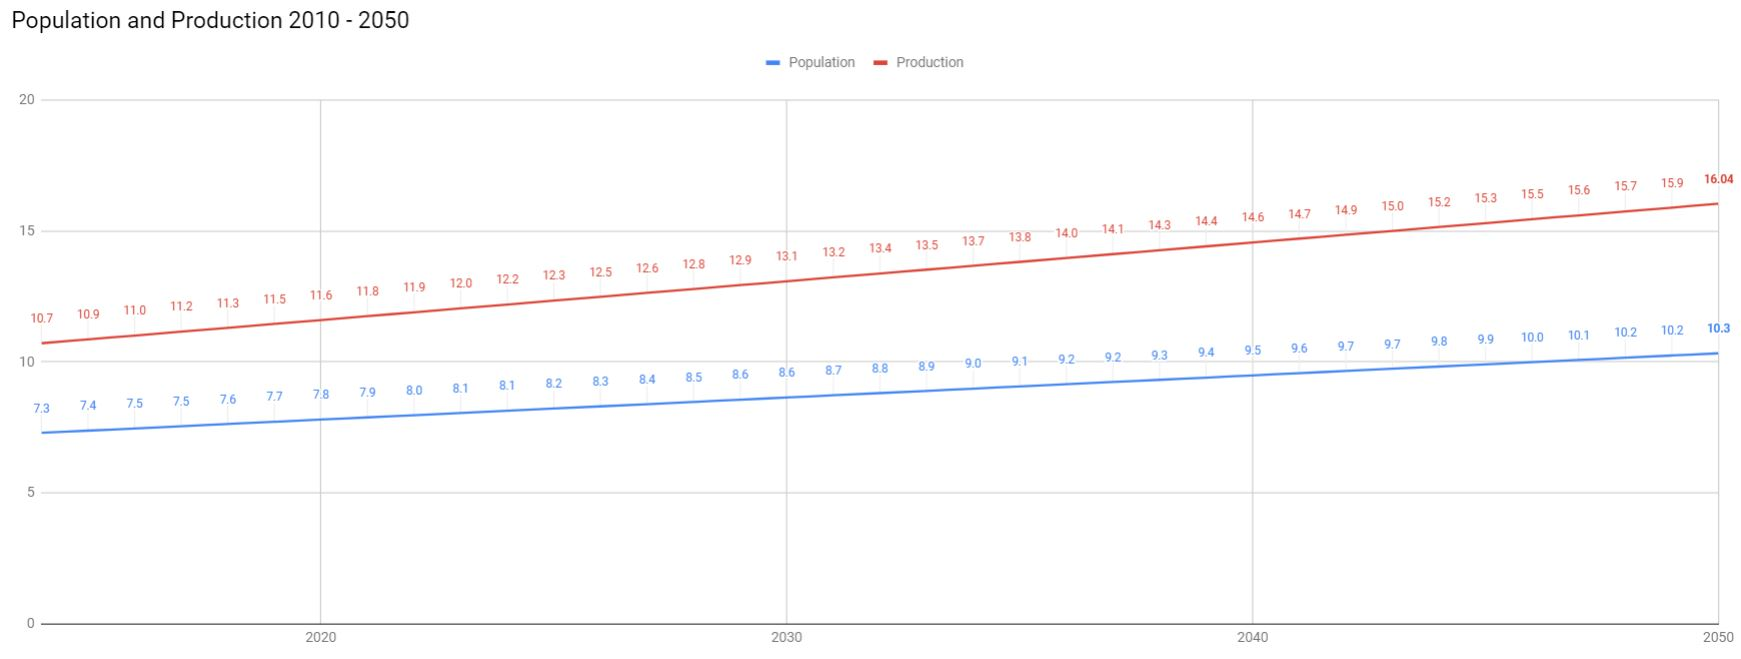
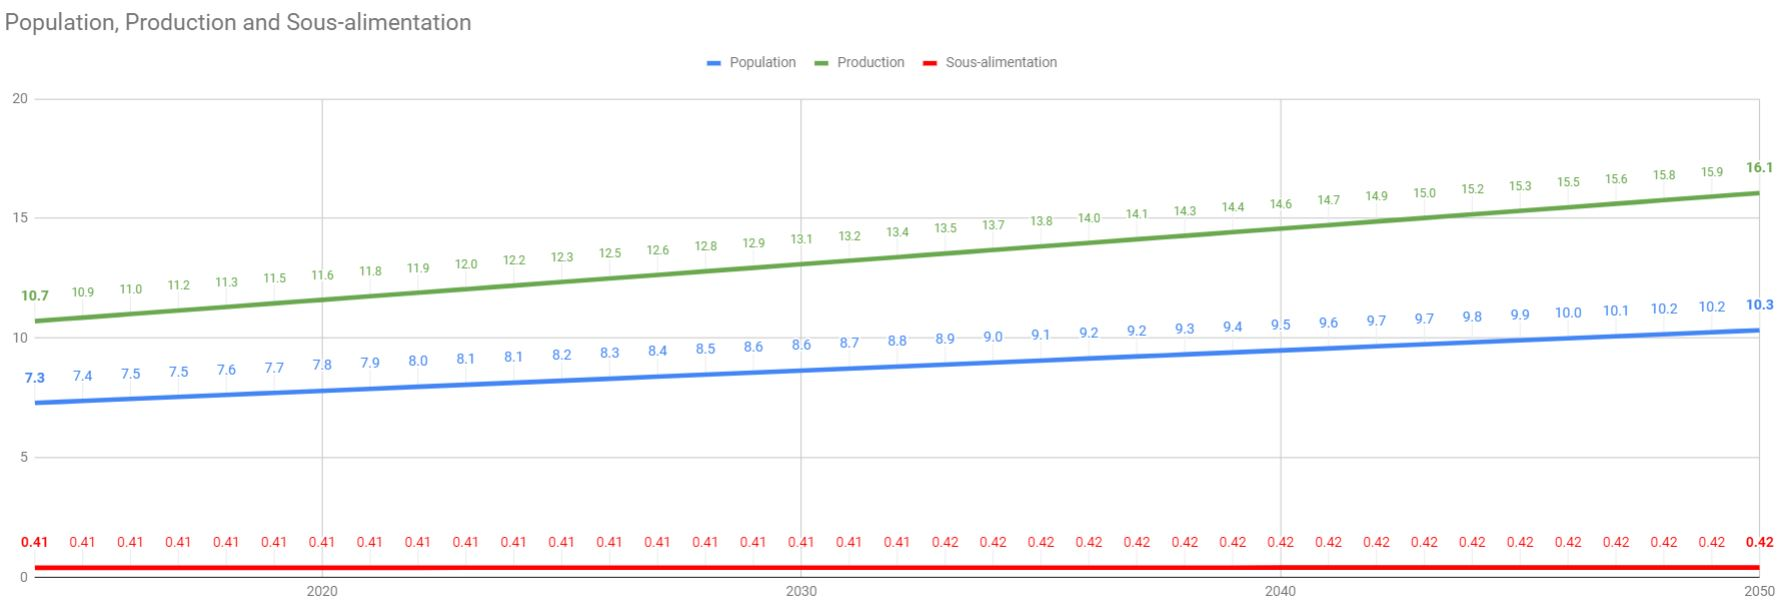
Add files via upload

diff --git a/fao.html b/fao.html
@@ -1,7 +1,8 @@
 <!DOCTYPE html>
 <html>
     <head>
-        <title> Projet Fil rouge</title>
+      
+        <title>Projet Fil rouge</title>
         <meta charset="utf-8"/>
         <meta name='viewport' content='width=device-width, initial-scale=1'>
         <link rel="stylesheet" href="savc.css">
@@ -10,7 +11,8 @@
     </head>
     <body>
                 <section>
-                    <h1><strong>Projet Fil Rouge</strong></h1><br/>
+                    <a href="https://trello.com/b/GFhFd2Dh/projet-fil-rouge"  target="_blank"><h1><strong>Projet Fil Rouge</strong></h1><br/></a>
+                    
                     <br/>
              <div class= "row1">    
                 <div class="column1">
@@ -81,6 +83,21 @@
                 </div>
               </div>
         </section>
+        <section>
+            <h2>Rapport sur le bonheur dans le monde 2018
+            </h2>
+            <div>
+                <h3>Sous-nutrition par année  </h3>
+            </br>
+                <div class= "graf">
+                    <a href="" download="" target="_blank"><img src="Valeur_sous_nutrition_par_annee.JPG" alt="sous-nutrition"/></a><br/>
+                    <p>
+                        Après avoir constamment diminuée depuis 2003, la situation de la malnutrition dans le monde se dégrade. On constate depuis 2015, les chiffres repartent à la hausse sur 3 années consécutives. 
+                        
+                         <br/>
+            </div>
+            </div> 
+        </section>
             <section>
                 <h2>Rapport sur le bonheur dans le monde 2018
                 </h2>
@@ -148,6 +165,7 @@
                     <a href="" download="" target="_blank"><img src="popprod.JPG" alt="Production"/></a><br/>
                     <p>La production est en croissance plus rapide par rapport à la population.
                         <p>Si les habitudes alimentaires restent les mêmes, la production ne doit pas augmenter comme elle l'a fait jusqu'à présent.  <br/>
+                            <p> Le nombre de sous-aliments augmente lentement.
             </div>
             </div> 
         </section>

diff --git a/savc.css b/savc.css
@@ -1,5 +1,8 @@
 @import url('https://fonts.googleapis.com/css2?family=Scada:wght@700&display=swap');
 
+h1{
+    text-align:center;
+}
 body{
      background: radial-gradient(circle,rgb(255, 255, 255) 10%, rgb(226, 248, 103) 49%, rgb(87, 216, 87) 100%);
     }
